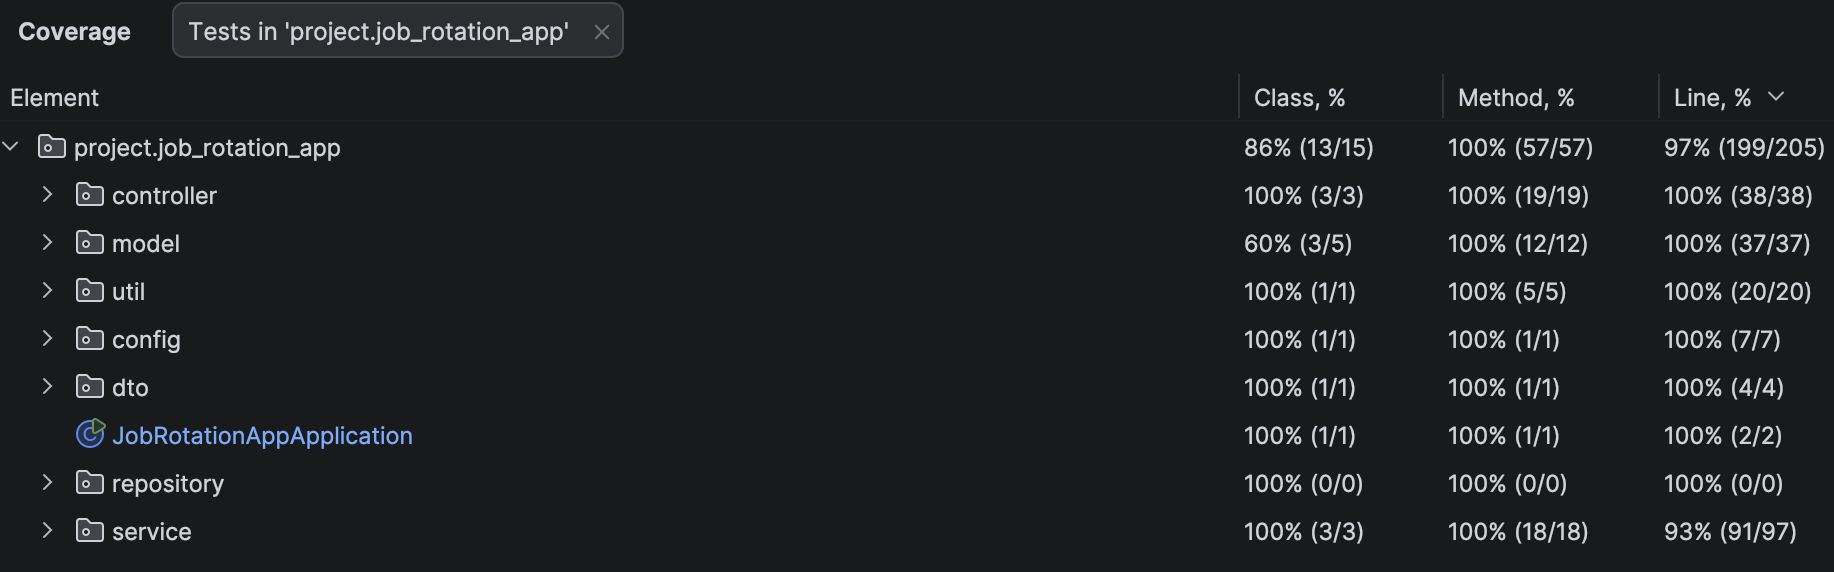
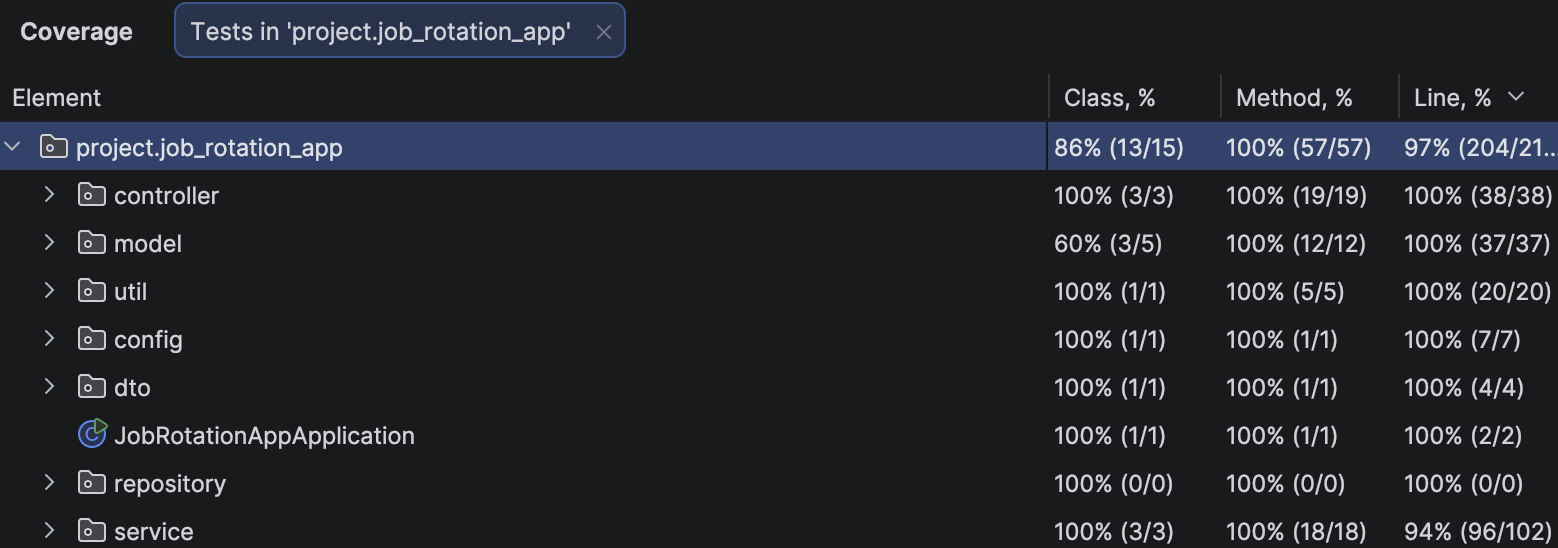
feat: move JWT token into cookies and update tests

diff --git a/job-rotation-app-backend/src/test/java/project/job_rotation_app/controller/AuthControllerTest.java b/job-rotation-app-backend/src/test/java/project/job_rotation_app/controller/AuthControllerTest.java
@@ -4,9 +4,11 @@ import static org.junit.jupiter.api.Assertions.assertEquals;
 import static org.junit.jupiter.api.Assertions.assertFalse;
 import static org.junit.jupiter.api.Assertions.assertNotNull;
 import static org.mockito.Mockito.doReturn;
+import static org.mockito.Mockito.mock;
 import static org.mockito.Mockito.verify;
 import static org.mockito.Mockito.when;
 
+import jakarta.servlet.http.HttpServletResponse;
 import java.util.Map;
 import java.util.Optional;
 import org.junit.jupiter.api.DisplayName;
@@ -45,16 +47,17 @@ public class AuthControllerTest {
     authController.authBusinessService = authBusinessService;
 
     LoginReqBody loginDetails = new LoginReqBody("[email redacted]", "password123");
+    HttpServletResponse mockResponse = mock(HttpServletResponse.class);
 
     doReturn(ResponseEntity.ok(Map.of("token", "mock-jwt-token")))
-        .when(authBusinessService).verifyLoginCredentials(loginDetails);
+        .when(authBusinessService).verifyLoginCredentials(loginDetails, mockResponse);
 
-    ResponseEntity<?> response = authController.loginStaffingManager(loginDetails);
+    ResponseEntity<?> response = authController.loginStaffingManager(loginDetails, mockResponse);
 
     assertNotNull(response);
     assertEquals(HttpStatus.OK, response.getStatusCode());
     assertEquals("mock-jwt-token", ((Map<?, ?>) response.getBody()).get("token"));
-    verify(authBusinessService).verifyLoginCredentials(loginDetails);
+    verify(authBusinessService).verifyLoginCredentials(loginDetails, mockResponse);
   }
 
   @Test
@@ -63,10 +66,12 @@ public class AuthControllerTest {
     AuthController authController = new AuthController();
     authController.authBusinessService = authBusinessService;
 
-    when(authBusinessService.verifyLoginCredentials(null)).thenReturn(
+    HttpServletResponse mockResponse = mock(HttpServletResponse.class);
+
+    when(authBusinessService.verifyLoginCredentials(null, mockResponse)).thenReturn(
         ResponseEntity.badRequest().build());
 
-    ResponseEntity<?> response = authController.loginStaffingManager(null);
+    ResponseEntity<?> response = authController.loginStaffingManager(null, mockResponse);
 
     assertEquals(HttpStatus.BAD_REQUEST, response.getStatusCode());
   }
@@ -79,10 +84,12 @@ public class AuthControllerTest {
 
     LoginReqBody loginDetails = new LoginReqBody("", "password123");
 
-    when(authBusinessService.verifyLoginCredentials(loginDetails)).thenReturn(
+    HttpServletResponse mockResponse = mock(HttpServletResponse.class);
+
+    when(authBusinessService.verifyLoginCredentials(loginDetails, mockResponse)).thenReturn(
         ResponseEntity.badRequest().build());
 
-    ResponseEntity<?> response = authController.loginStaffingManager(loginDetails);
+    ResponseEntity<?> response = authController.loginStaffingManager(loginDetails, mockResponse);
     assertEquals(HttpStatus.BAD_REQUEST, response.getStatusCode());
   }
 
@@ -94,10 +101,12 @@ public class AuthControllerTest {
 
     LoginReqBody loginDetails = new LoginReqBody("[email redacted]", "");
 
-    when(authBusinessService.verifyLoginCredentials(loginDetails)).thenReturn(
+    HttpServletResponse mockResponse = mock(HttpServletResponse.class);
+
+    when(authBusinessService.verifyLoginCredentials(loginDetails, mockResponse)).thenReturn(
         ResponseEntity.badRequest().build());
 
-    ResponseEntity<?> response = authController.loginStaffingManager(loginDetails);
+    ResponseEntity<?> response = authController.loginStaffingManager(loginDetails, mockResponse);
 
     assertEquals(HttpStatus.BAD_REQUEST, response.getStatusCode());
   }

diff --git a/job-rotation-app-backend/src/main/java/project/job_rotation_app/service/AuthBusinessServiceImpl.java b/job-rotation-app-backend/src/main/java/project/job_rotation_app/service/AuthBusinessServiceImpl.java
@@ -1,5 +1,7 @@
 package project.job_rotation_app.service;
 
+import jakarta.servlet.http.Cookie;
+import jakarta.servlet.http.HttpServletResponse;
 import java.util.Map;
 import org.springframework.beans.factory.annotation.Autowired;
 import org.springframework.http.ResponseEntity;
@@ -31,7 +33,8 @@ public class AuthBusinessServiceImpl {
         .orElse(false);
   }
 
-  public ResponseEntity<?> verifyLoginCredentials(LoginReqBody userDetails) {
+  public ResponseEntity<?> verifyLoginCredentials(LoginReqBody userDetails,
+      HttpServletResponse response) {
     if (userDetails == null || userDetails.getEmailAddress() == null ||
         userDetails.getPassword() == null || userDetails.getEmailAddress().isEmpty()
         || userDetails.getPassword().isEmpty()) {
@@ -46,6 +49,13 @@ public class AuthBusinessServiceImpl {
               user.getEmailAddress(),
               String.valueOf(user.getUserId())
           );
+
+          Cookie cookie = new Cookie("jwt", jwtToken);
+          cookie.setHttpOnly(true);
+          cookie.setPath("/");
+          cookie.setMaxAge(3600); 
+          response.addCookie(cookie);
+
           return ResponseEntity.ok().body(Map.of("token", jwtToken));
         })
         .orElse(ResponseEntity.status(401)

diff --git a/job-rotation-app-backend/src/test/java/project/job_rotation_app/service/AuthBusinessServiceTest.java b/job-rotation-app-backend/src/test/java/project/job_rotation_app/service/AuthBusinessServiceTest.java
@@ -3,8 +3,10 @@ package project.job_rotation_app.service;
 import static org.junit.jupiter.api.Assertions.assertEquals;
 import static org.junit.jupiter.api.Assertions.assertFalse;
 import static org.mockito.ArgumentMatchers.anyString;
+import static org.mockito.Mockito.mock;
 import static org.mockito.Mockito.when;
 
+import jakarta.servlet.http.HttpServletResponse;
 import java.util.Map;
 import java.util.Optional;
 import org.junit.jupiter.api.BeforeEach;
@@ -55,7 +57,10 @@ public class AuthBusinessServiceTest {
         .thenReturn(Optional.of(staffingManagerUser));
     when(jwtUtil.generateToken(anyString(), anyString())).thenReturn("example-token");
 
-    ResponseEntity<?> response = authBusinessService.verifyLoginCredentials(userDetails);
+    HttpServletResponse mockResponse = mock(HttpServletResponse.class);
+
+    ResponseEntity<?> response = authBusinessService.verifyLoginCredentials(userDetails,
+        mockResponse);
 
     assertEquals(HttpStatus.OK, response.getStatusCode());
   }
@@ -69,7 +74,10 @@ public class AuthBusinessServiceTest {
     when(staffingManagerRepository.findByEmailAddress(userDetails.getEmailAddress())).thenReturn(
         Optional.of(staffingManagerUser));
 
-    ResponseEntity<?> response = authBusinessService.verifyLoginCredentials(userDetails);
+    HttpServletResponse mockResponse = mock(HttpServletResponse.class);
+
+    ResponseEntity<?> response = authBusinessService.verifyLoginCredentials(userDetails,
+        mockResponse);
 
     assertEquals(HttpStatus.UNAUTHORIZED, response.getStatusCode());
     assertEquals(Map.of("Error", "Invalid email or password provided."), response.getBody());

diff --git a/job-rotation-app-backend/src/main/java/project/job_rotation_app/controller/AuthController.java b/job-rotation-app-backend/src/main/java/project/job_rotation_app/controller/AuthController.java
@@ -21,8 +21,9 @@ public class AuthController {
 
   @PostMapping("/staffing-manager/login")
   public ResponseEntity<?> loginStaffingManager(
-      @RequestBody LoginReqBody loginDetails) {
-    return authBusinessService.verifyLoginCredentials(loginDetails);
+      @RequestBody LoginReqBody loginDetails,
+      HttpServletResponse response) {
+    return authBusinessService.verifyLoginCredentials(loginDetails, response);
   }
 
   @PostMapping("/logout")